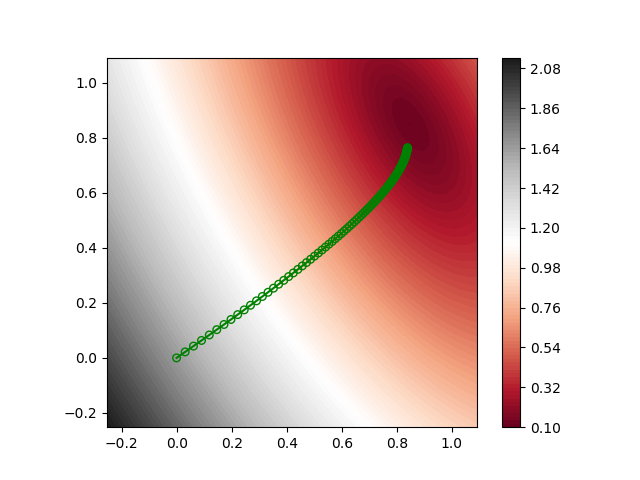
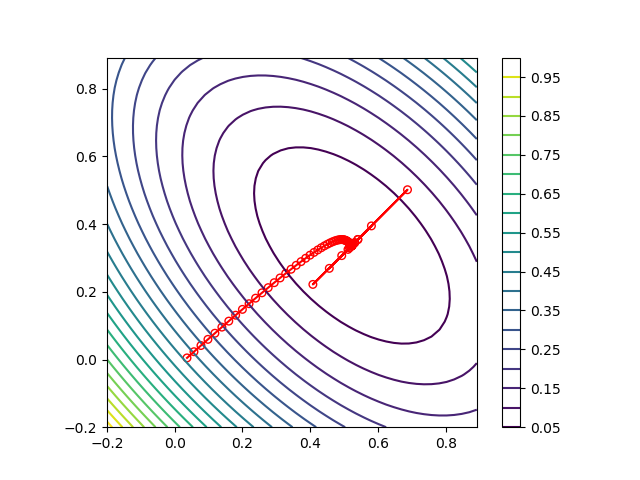
fix bugs in plotting

diff --git a/plot.py b/plot.py
@@ -21,16 +21,16 @@ def f_sin(x, y):
 
 
 def f_quad(X1, X2, W, Y):
+  assert (Y.shape == (2, ))
   Z = np.ndarray(shape=X1.shape, dtype=X1.dtype)
   for i in range(X1.shape[0]):
     for j in range(X1.shape[1]):
-      Z[i, j] = LA.norm((W.dot(np.asarray([X1[i, j], X2[i, j]], dtype=X1.dtype)) - Y))
-      #Z[i, j] = LA.norm((W @ np.asarray([X1[i, j], X2[i, j]], dtype=X1.dtype) - Y))
+      Z[i, j] = np.sum((W.dot(np.asarray([X1[i, j], X2[i, j]], dtype=X1.dtype)).T - Y) ** 2)
   return Z
 
 
 def main():
-  optimizers = ['L2L', 'Adam', 'Momentum', 'SGD', 'NAG', 'RMSProp']
+  optimizers = ['Adam', 'Momentum', 'SGD', 'NAG', 'RMSProp']
 
   problem_path = './problems/quadratic.npz'
   npzfile = np.load(problem_path)
@@ -43,15 +43,17 @@ def main():
     x[optimizer] = np.load(osp.join('./results', optimizer + '.npy'))
 
   for prob_idx in range(prob_num):
-    plt.figure(figsize=(10, 6))
+    fig = plt.figure(figsize=(10, 6))
     for optimizer in optimizers:
       obj[optimizer] = list(
-        map(lambda x: LA.norm(problems_w[prob_idx].dot(x) - problems_b[prob_idx]) ** 2,
+        map(lambda x: np.sum((problems_w[prob_idx].dot(x) - problems_b[prob_idx].squeeze()) ** 2),
             x[optimizer][prob_idx]))
       plt.plot(obj[optimizer], label=optimizer)
     plt.legend(loc='upper right')
     plt.xlabel('number of iterations')
     plt.ylabel('objective value')
+    ax = fig.add_subplot(1, 1, 1)
+    ax.set_yscale("log")
     plt.savefig('./figs/loss_prob_{}.png'.format(prob_idx))
 
     # X = {}  # dictionary to store data
@@ -70,7 +72,7 @@ def main():
     # # plot level set and trajectory for SGD
     # W = 0.5 * np.eye(2)
     # Y = 0.5 * np.ones(2)
-  optimizer = 'SGD'
+  optimizer = 'L2L'
   for prob_idx in range(prob_num):
     W = problems_w[prob_idx]
     Y = problems_b[prob_idx]
@@ -85,19 +87,18 @@ def main():
     x1 = np.linspace(t_min, t_max, num=50)
     x2 = np.linspace(t_min, t_max, num=50)
     X1, X2 = np.meshgrid(x1, x2)
-    Z = f_quad(X1, X2, W, Y)
-    plt.figure()
-    plt.contourf(X1, X2, Z, 100, cmap='RdGy')
+    Z = f_quad(X1, X2, W, Y.squeeze())
+    fig = plt.figure()
+    plt.contour(X1, X2, Z, 20)
     plt.colorbar()
     plt.axes().set_aspect('equal')
     plt.axis([t_min, t_max, t_min, t_max])
 
-    plt.scatter(x[optimizer][prob_idx][:, 0], x[optimizer][prob_idx][:, 1], s=30, edgecolors='g', facecolors='none',
+    plt.scatter(x[optimizer][prob_idx][:, 0], x[optimizer][prob_idx][:, 1], s=30, edgecolors='r', facecolors='none',
                 marker='o')
-    plt.plot(x[optimizer][prob_idx][:, 0], x[optimizer][prob_idx][:, 1], color='g')
+    plt.plot(x[optimizer][prob_idx][:, 0], x[optimizer][prob_idx][:, 1], color='r')
     plt.savefig('./figs/contour_{}.png'.format(prob_idx))
 
 
 if __name__ == "__main__":
   main()
-

diff --git a/generate_problems.py b/generate_problems.py
@@ -10,8 +10,9 @@ for i in range(5):
   problems_w.append(w)
   problems_b.append(b)
 
-w = [[5, 0], [0, 1]]
-b = np.zeros((2, 1))
+w = [[0.5, 0], [0, 0.1]]
+b = np.asarray([0.2, 0.2]).reshape(2, 1)
+assert(b.shape == problems_b[0].shape)
 problems_w.append(w)
 problems_b.append(b)
 
